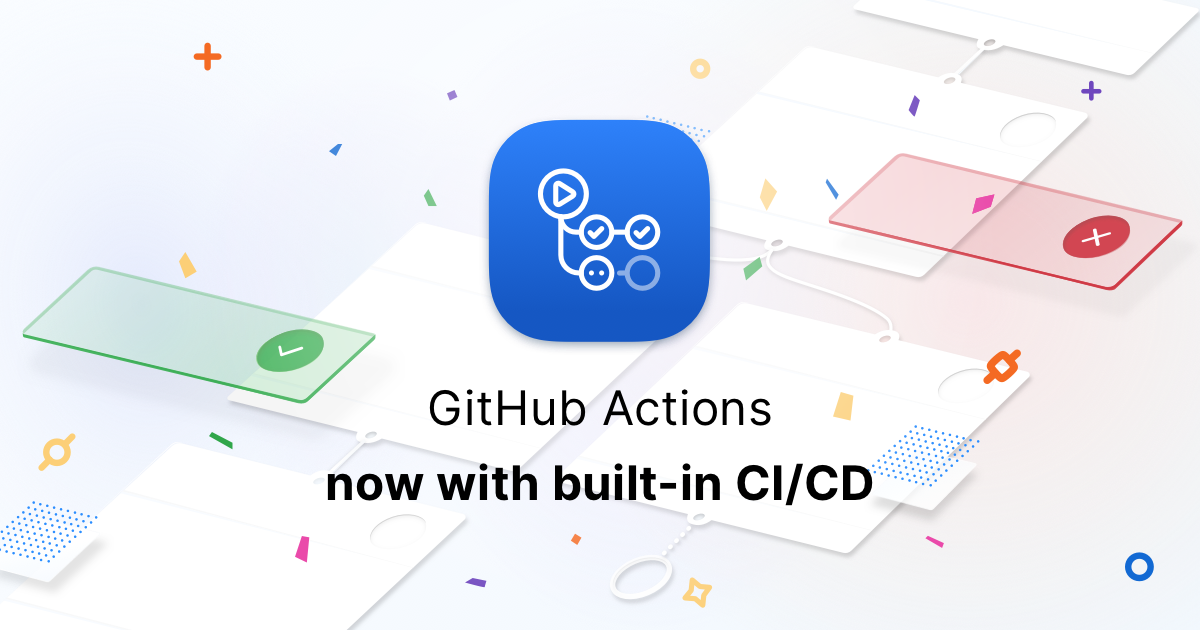
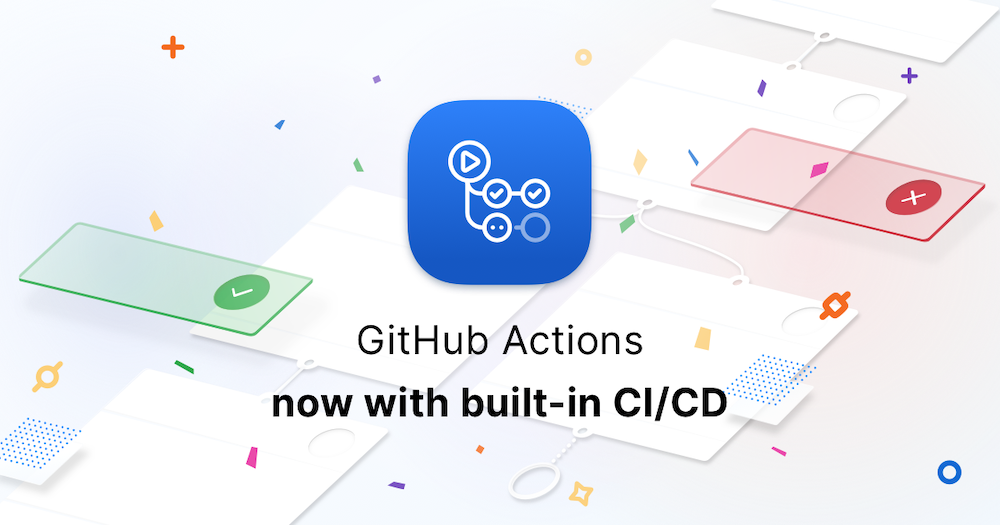
파일 리사이즈 및 문구 수정

diff --git a/_posts/2020-04-19-Github-Action으로-CI-대체하기.md b/_posts/2020-04-19-Github-Action으로-CI-대체하기.md
@@ -79,7 +79,7 @@ jobs:
 3. 패키지 설치는 본인의 requirments.txt가 있는 곳으로 수정해준다.
 4. 마지막 테스트를 pytest로 만 바꿔준다.
 
-```YAML
+```YAML 설정
 name: Django CI
 
 on:
@@ -124,9 +124,15 @@ jobs:
 <br>
 파일을 수정하며 커밋하고 다시 push를 하면 pull request가 존재하므로 다시 Github Action이 동작합니다.
 <br><br>
+
 ![github_action](/assets/img/github_action/github_action_5.png)
 <br>
 성공!
+
+이제 제 pull request에서 check 표시로 인정받은 듯한 느낌을 받을 수 있습니다.
+<br>
+
+![github_action](/assets/img/github_action/github_action_6.png)
 
 ### 느낀 점
 
